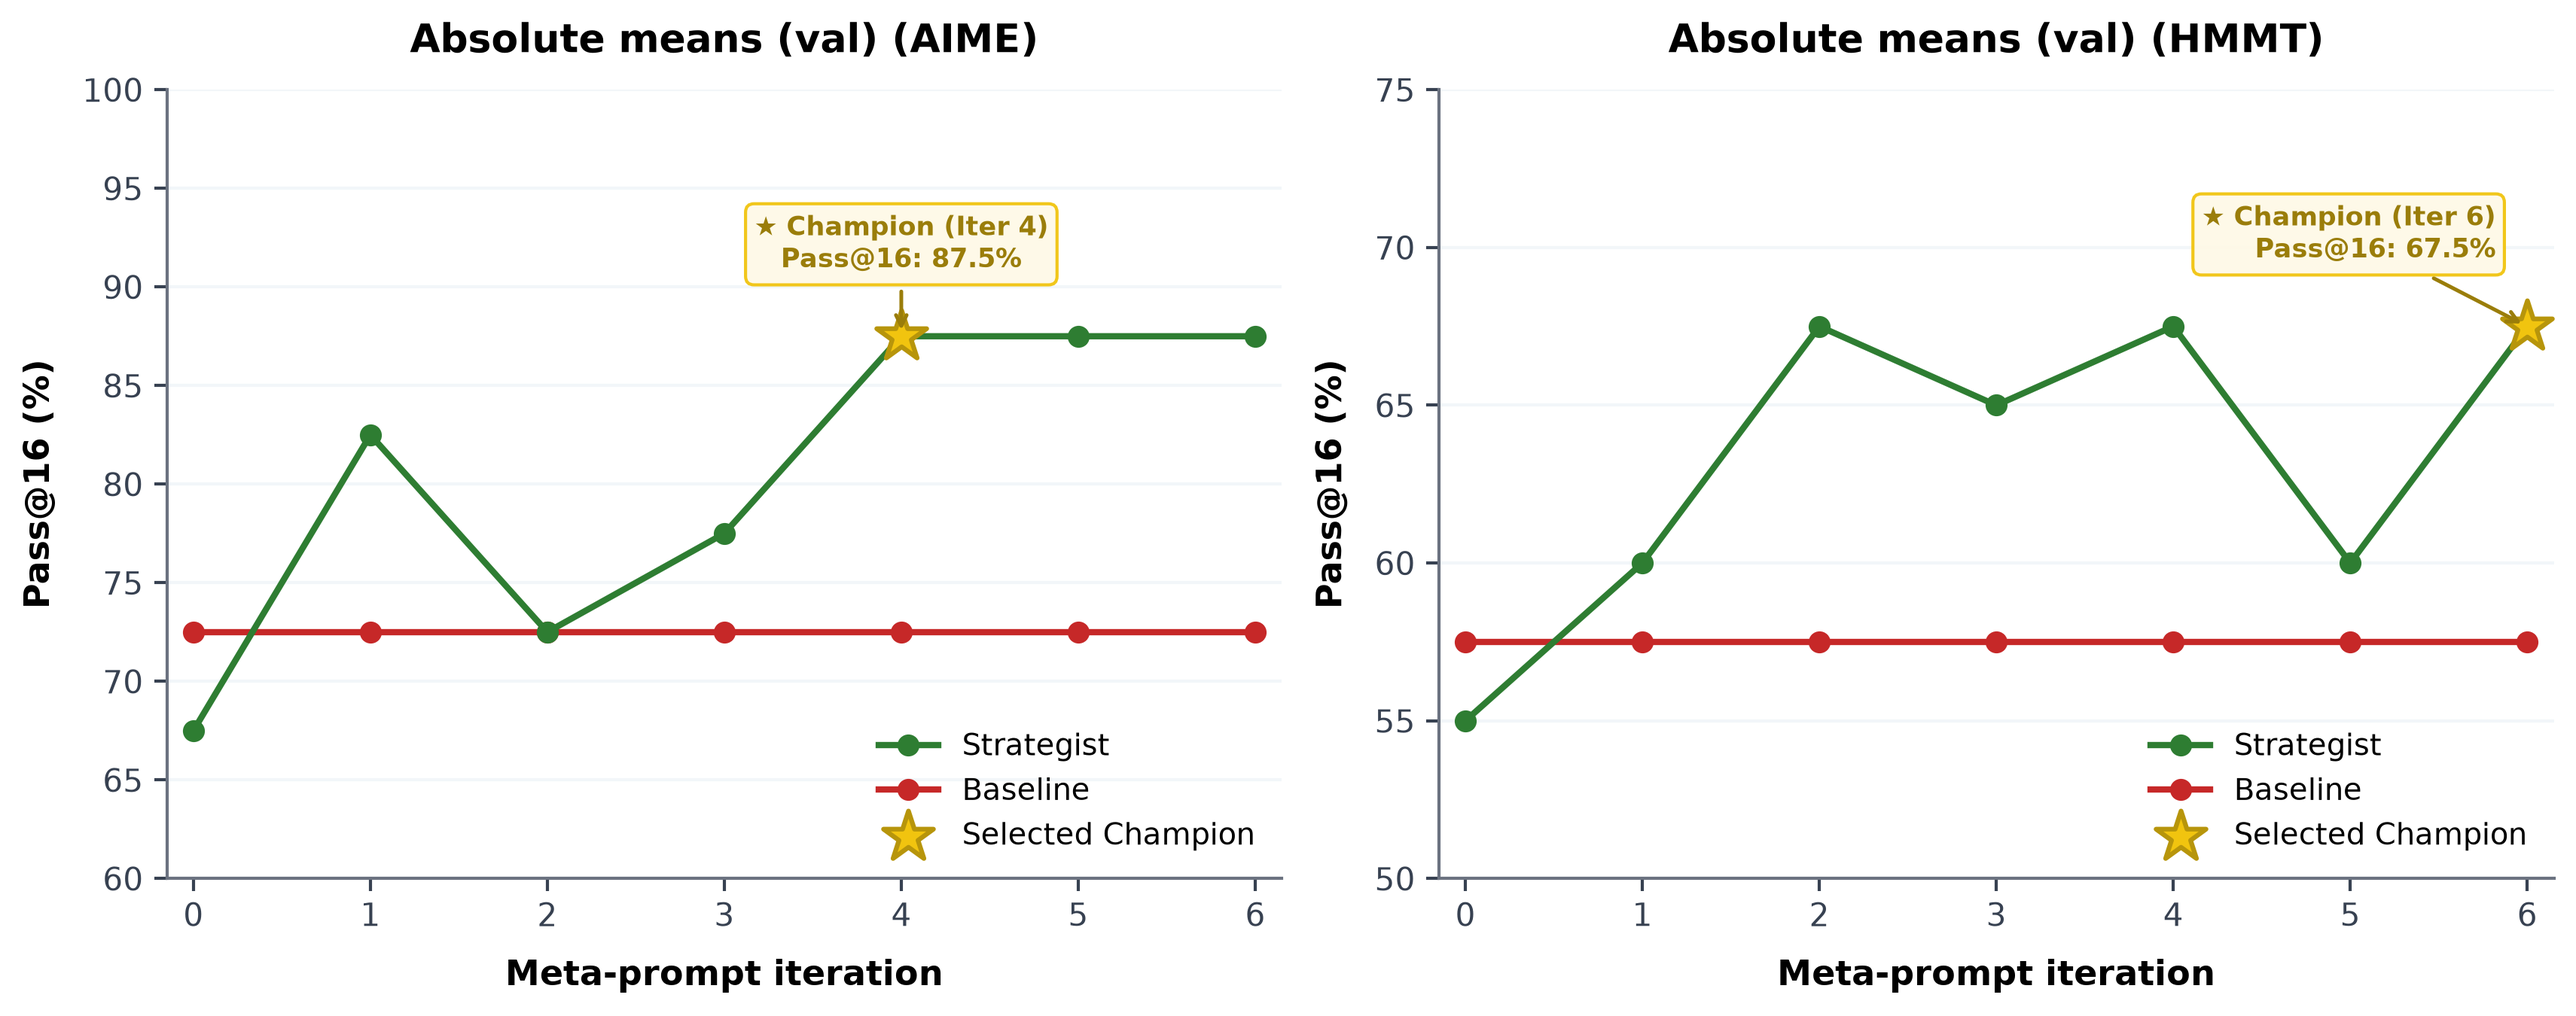
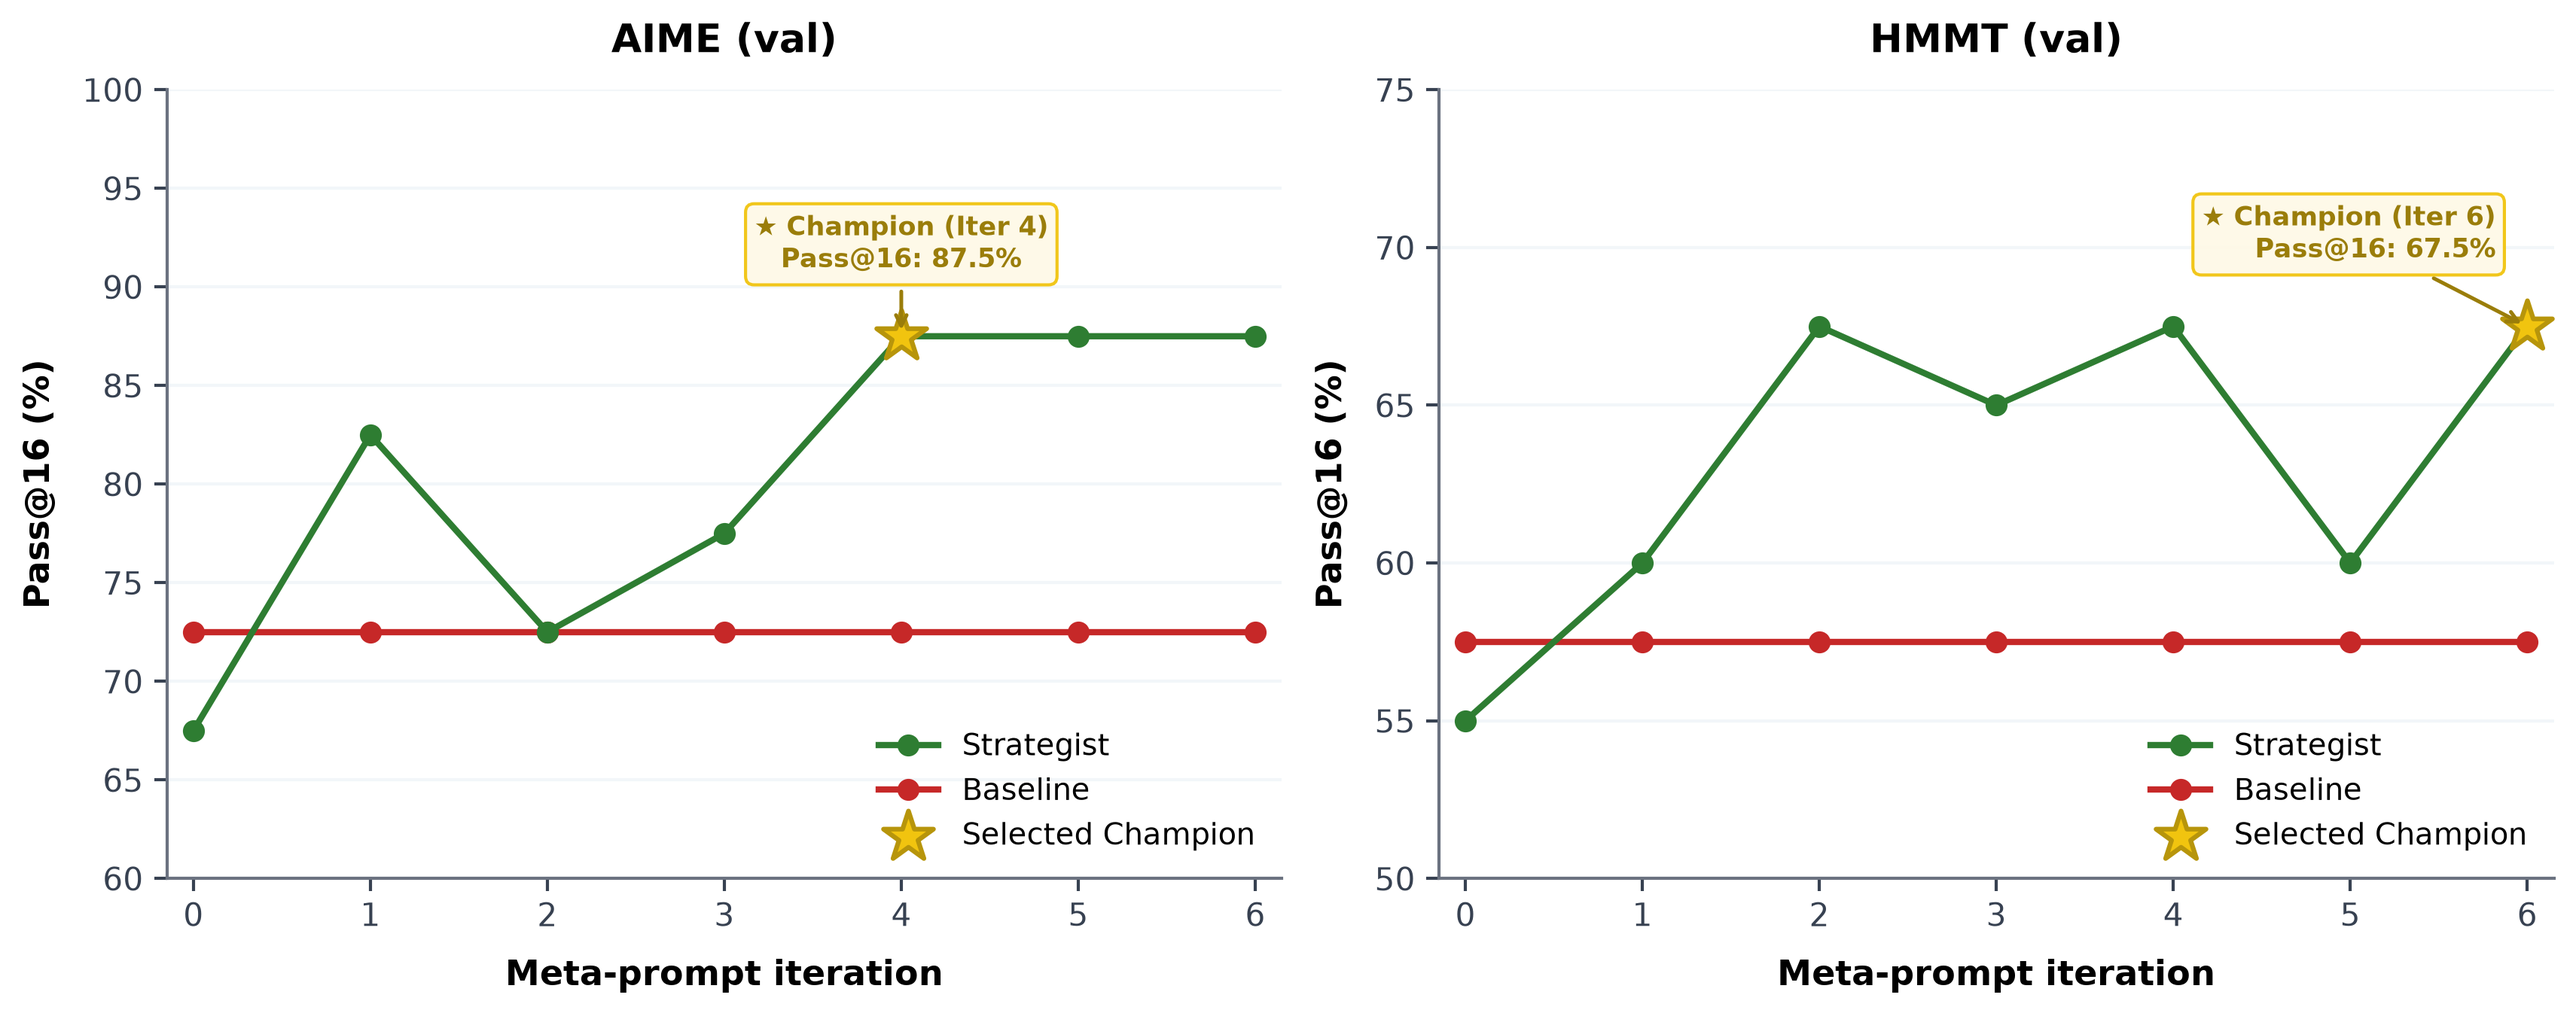
Clean up

Changed region(s): [[0.6507, 0.0, 0.8986, 0.0622], [0.1549, 0.0, 0.4028, 0.0622]]

diff --git a/scoop/README.md b/scoop/README.md
@@ -140,7 +140,7 @@ After the iterations are completed, we evaluate Pass@16 on the held-out validati
 
 <p align="center"><img width="90%" src="val_pass_at_k_side_by_side.png" /></p>
 
-*Figure: Validation Pass@16 across 7 meta-prompt optimization iterations on AIME (left) and HMMT (right), comparing the evolving strategist (green) to the unstrategized temperature-based sampling baseline (red). The selected champion checkpoint on each benchmark is marked with a gold star (Iteration 4 on AIME at 87.5%, and Iteration 6 on HMMT at 67.5%). On both benchmarks, naive initial strategizing (iteration 0) underperforms the baseline, but iterative meta-optimization consistently elevates validation performance, reaching 87.5% on AIME (+15.0% over baseline) and 67.5% on HMMT (+10.0% over baseline).*
+*Figure: Validation Pass@16 across 7 meta-prompt optimization iterations on AIME (left) and HMMT (right), comparing the evolving strategist (green) to the unstrategized temperature-based sampling baseline (red). The selected champion checkpoint on each benchmark is marked with a gold star (Iteration 4 on AIME at 87.5%, and Iteration 6 on HMMT at 67.5%). On both benchmarks, naive initial strategizing (Iteration 0) underperforms the baseline, but iterative meta-optimization consistently elevates validation performance, reaching 87.5% on AIME (+15.0% over baseline) and 67.5% on HMMT (+10.0% over baseline).*
 
 
 ### Analysis of learned strategic exploration principles
